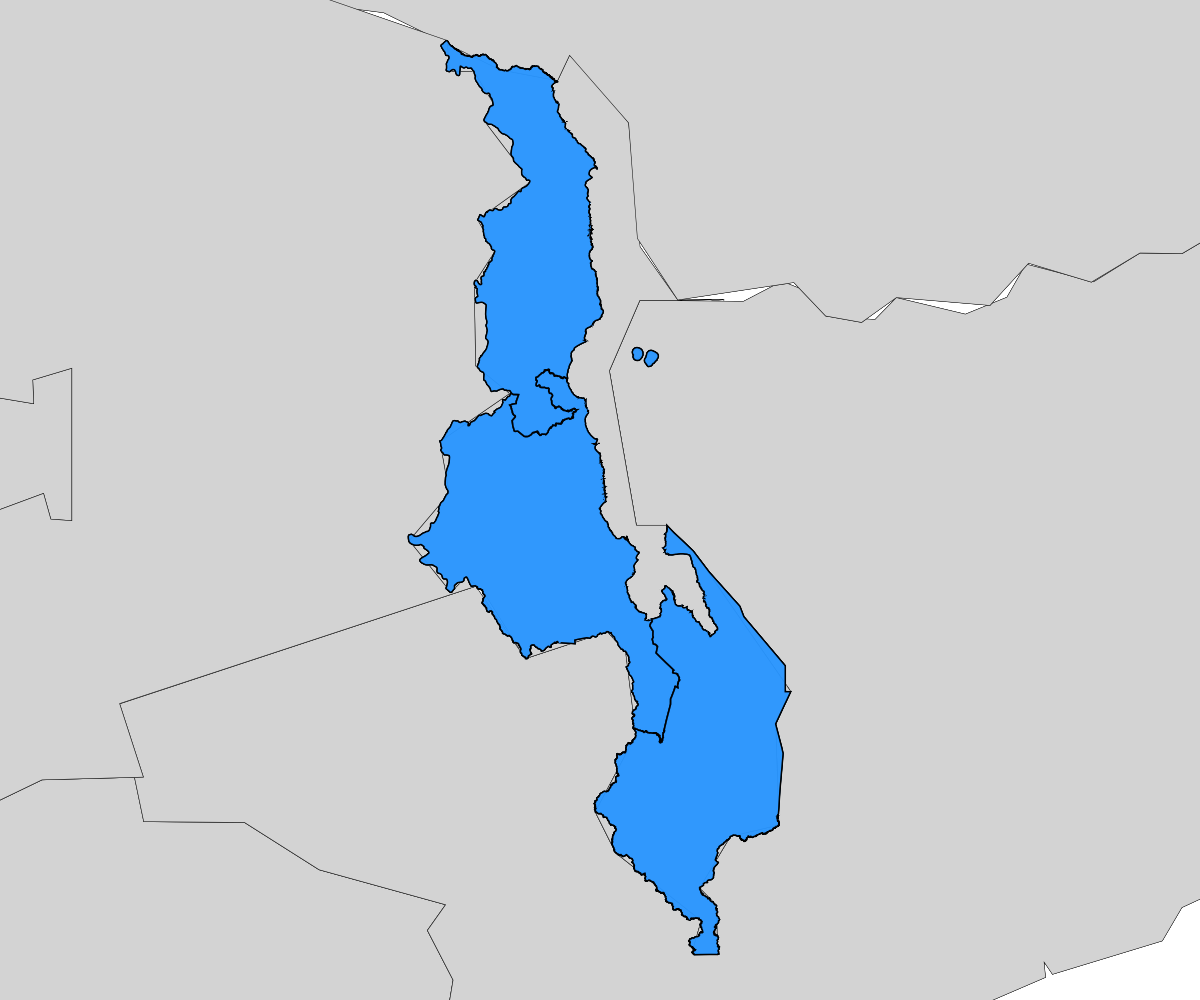
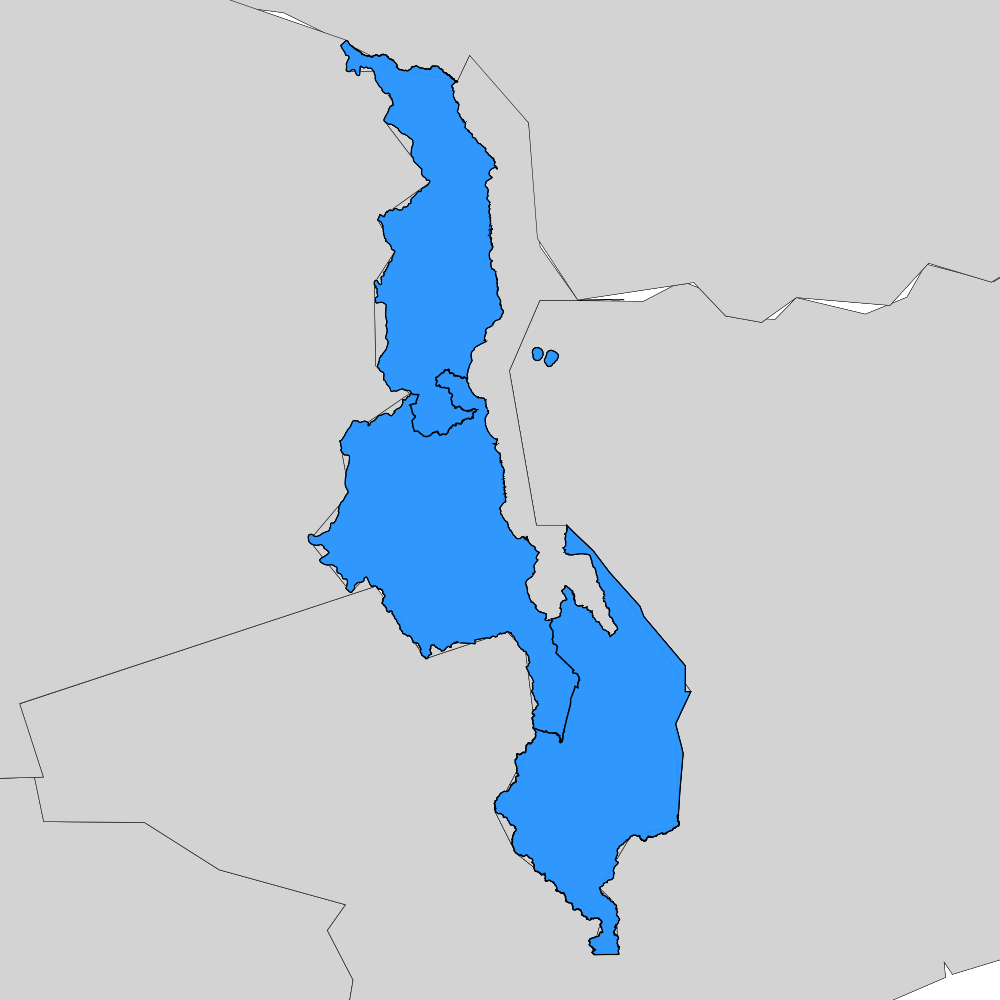
Update adm level illustrations

diff --git a/illustrate_adminlevels.py b/illustrate_adminlevels.py
@@ -9,6 +9,7 @@ from urllib.request import urlopen
 import pythongis as pg
 
 # params
+branch = 'gadm4'
 iso = 'MWI'
 
 # identify possible
@@ -40,7 +41,7 @@ def makemap(geoj, source, level):
 
     crs = '+proj=aea +lat_1=27 +lat_2=45 +lat_0=35 +lon_0=105 +x_0=0 +y_0=0 +ellps=WGS84 +datum=WGS84 +no_defs'
     
-    m = pg.renderer.Map(1200,1000,background='white') #,crs=crs)
+    m = pg.renderer.Map(1000,1000,background='white') #,crs=crs)
     m.add_layer(countries, fillcolor='lightgray', outlinewidth='0.5px')
     
     d = pg.VectorData()
@@ -56,8 +57,11 @@ def makemap(geoj, source, level):
 # load china sources
 for lvl in range(1, 3+1):
     print(lvl)
-    sources = bt.utils.find_geocontrast_sources(iso, lvl)
+    sources = bt.utils.find_geocontrast_sources(iso, lvl, branch=branch)
     for src,url in sources.items():
+        if 'Authoritative' in src: 
+            continue
+        url = url.replace('/stable/', f'/{branch}/')
         geoj = bt.utils.load_topojson_url(url)
         makemap(geoj, src, lvl)
 
